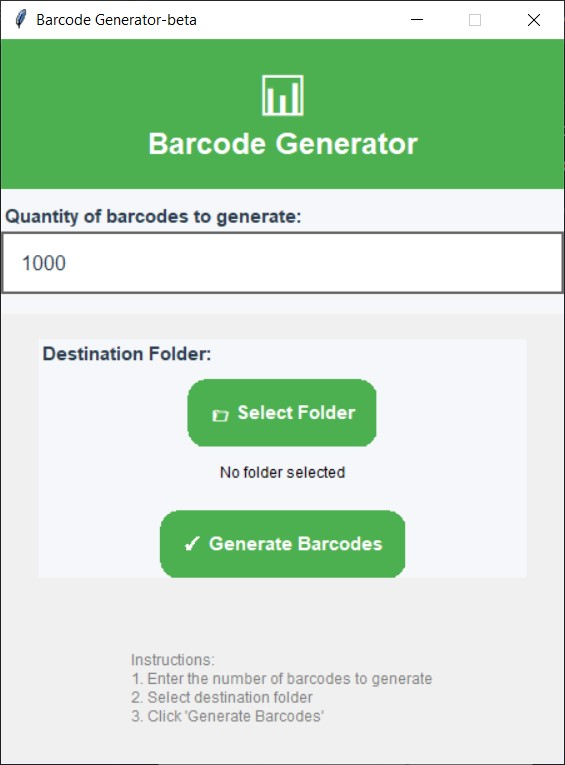
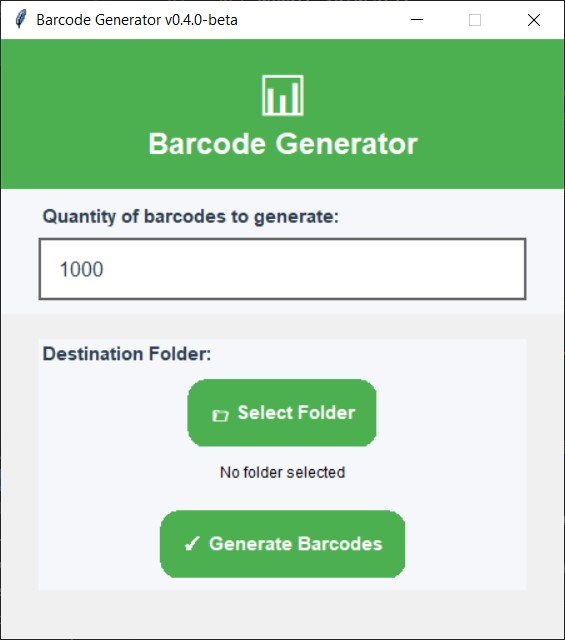
Merge pull request #6 from AaronCasildo/refactor/modularize-codebase
chore: code cleanup, improve ui/ux

Pull request: chore: code cleanup, improve ui/ux
## What changed
Modified the `tkinter_ui.py` file, small changes on the interface and user experience, update the readme.

### UI
- Removed instructions and reduced the ui size
- Changed the % of completion to n/total in barcode progressbar
- Space UI elements: quantity of barcodes to generate (label and frame)

### UX
- Added folder opening upon user input after generation
- Made the sub window modal when generating barcodes

### Chores
- Removed unused libraries
- Changed ui title to a version number
- Updated readme images

diff --git a/tkinter_ui.py b/tkinter_ui.py
@@ -1,10 +1,8 @@
+import os
 import tkinter as tk
 from tkinter import messagebox
 from tkinter import filedialog
 from tkinter import ttk
-# import threading
-import time
-# Later on we will restore the threading and progress bar functionality, but for now, we will focus on the core functionality of the GUI.
 from generator import generate_barcodes
 from config import config
 
@@ -101,7 +99,8 @@ def update_values():
         sub_ui()  # Show the sub UI
         generate_barcodes(config["input_value"], config["target_folder"],
                     on_progress = lambda current, total: update_progress(current, total),
-                    on_complete = lambda folder: [messagebox.showinfo("Completed", f"Barcodes generated successfully in:\n{folder}"), config["p_bar"].master.destroy()],
+                    on_complete = lambda folder: [config["p_bar"].master.destroy(),
+                                                  open_folder(folder)],
                     on_error = lambda msg: messagebox.showerror("Error", msg))
     else:
         return
@@ -117,8 +116,7 @@ def update_progress(current, total):
         config["p_bar"]['value'] = (current / total) * 100
         config["p_bar"].master.update_idletasks()
 
-        progress_percentage = (current / total) * 100
-        config["progress"].config(text=f"{progress_percentage:.2f}%")
+        config["progress"].config(text=f"{current}/{total} barcodes generated.")
 
 def sub_ui():
     sub_win = tk.Toplevel(root)
@@ -127,11 +125,24 @@ def sub_ui():
 
     tk.Label(sub_win, text="Please wait, loading task...").pack(pady=10)
 
-    config["progress"] = tk.Label(sub_win, text="0%")
+    config["progress"] = tk.Label(sub_win, text="0/0 barcodes generated (0.00%)")
     config["progress"].pack(pady=5)
 
     config["p_bar"] = ttk.Progressbar(sub_win, orient="horizontal", length=200, mode="determinate")
     config["p_bar"].pack(pady=10)
+
+    # Make the sub window modal
+    sub_win.transient(root) 
+    sub_win.grab_set()  
+
+def open_folder(folder_path):
+    shortened_path = shorten_path(folder_path)
+
+    if messagebox.askyesno("Barcodes Generated Successfully", f"Do you want to open the folder?\n{shortened_path}"):
+        if os.path.isdir(folder_path):
+            os.startfile(folder_path)
+        else:
+            messagebox.showerror("Error", "The specified folder does not exist.")
 
 def shorten_path(path, max_length=30):
     if len(path) <= max_length:
@@ -142,8 +153,8 @@ def shorten_path(path, max_length=30):
 
 # Main window
 root = tk.Tk()
-root.title("Barcode Generator-beta")
-root.geometry("450x580")
+root.title("Barcode Generator v0.4.0-beta")
+root.geometry("450x480")
 root.resizable(False, False)
 
 # Title
@@ -172,14 +183,14 @@ quantity_label = tk.Label(quantity_frame,
                          font=("Arial", 11, "bold"),
                          fg="#2c3e50",
                          bg="#f5f7fa")
-quantity_label.pack(anchor="w", pady=(10, 0))
+quantity_label.pack(anchor="w", pady=(10, 0), padx=30)
 
 # Entry with border
 entry_container = tk.Frame(quantity_frame, 
                           bg="white", 
                           highlightbackground="#dcdde1",
                           highlightthickness=2)
-entry_container.pack(fill=tk.X)
+entry_container.pack(fill=tk.X, padx=30, pady=(5, 10))
 
 title_entry = tk.Entry(entry_container, 
                       font=("Arial", 12), 
@@ -237,12 +248,7 @@ update_button = RoundedButton(folder_frame,
                          active_color="#3d8b40",
                          text_color="white",
                          font=("Arial", 11, "bold"))
-update_button.pack()
-
-# Instructions
-instructions = tk.Label(root, text="\nInstructions:\n1. Enter the number of barcodes to generate\n2. Select destination folder\n3. Click 'Generate Barcodes'", 
-                       font=("Arial", 9), justify="left", fg="gray")
-instructions.pack(pady=20)
+update_button.pack(pady=(0, 10))
 
 def Run():
     root.mainloop()